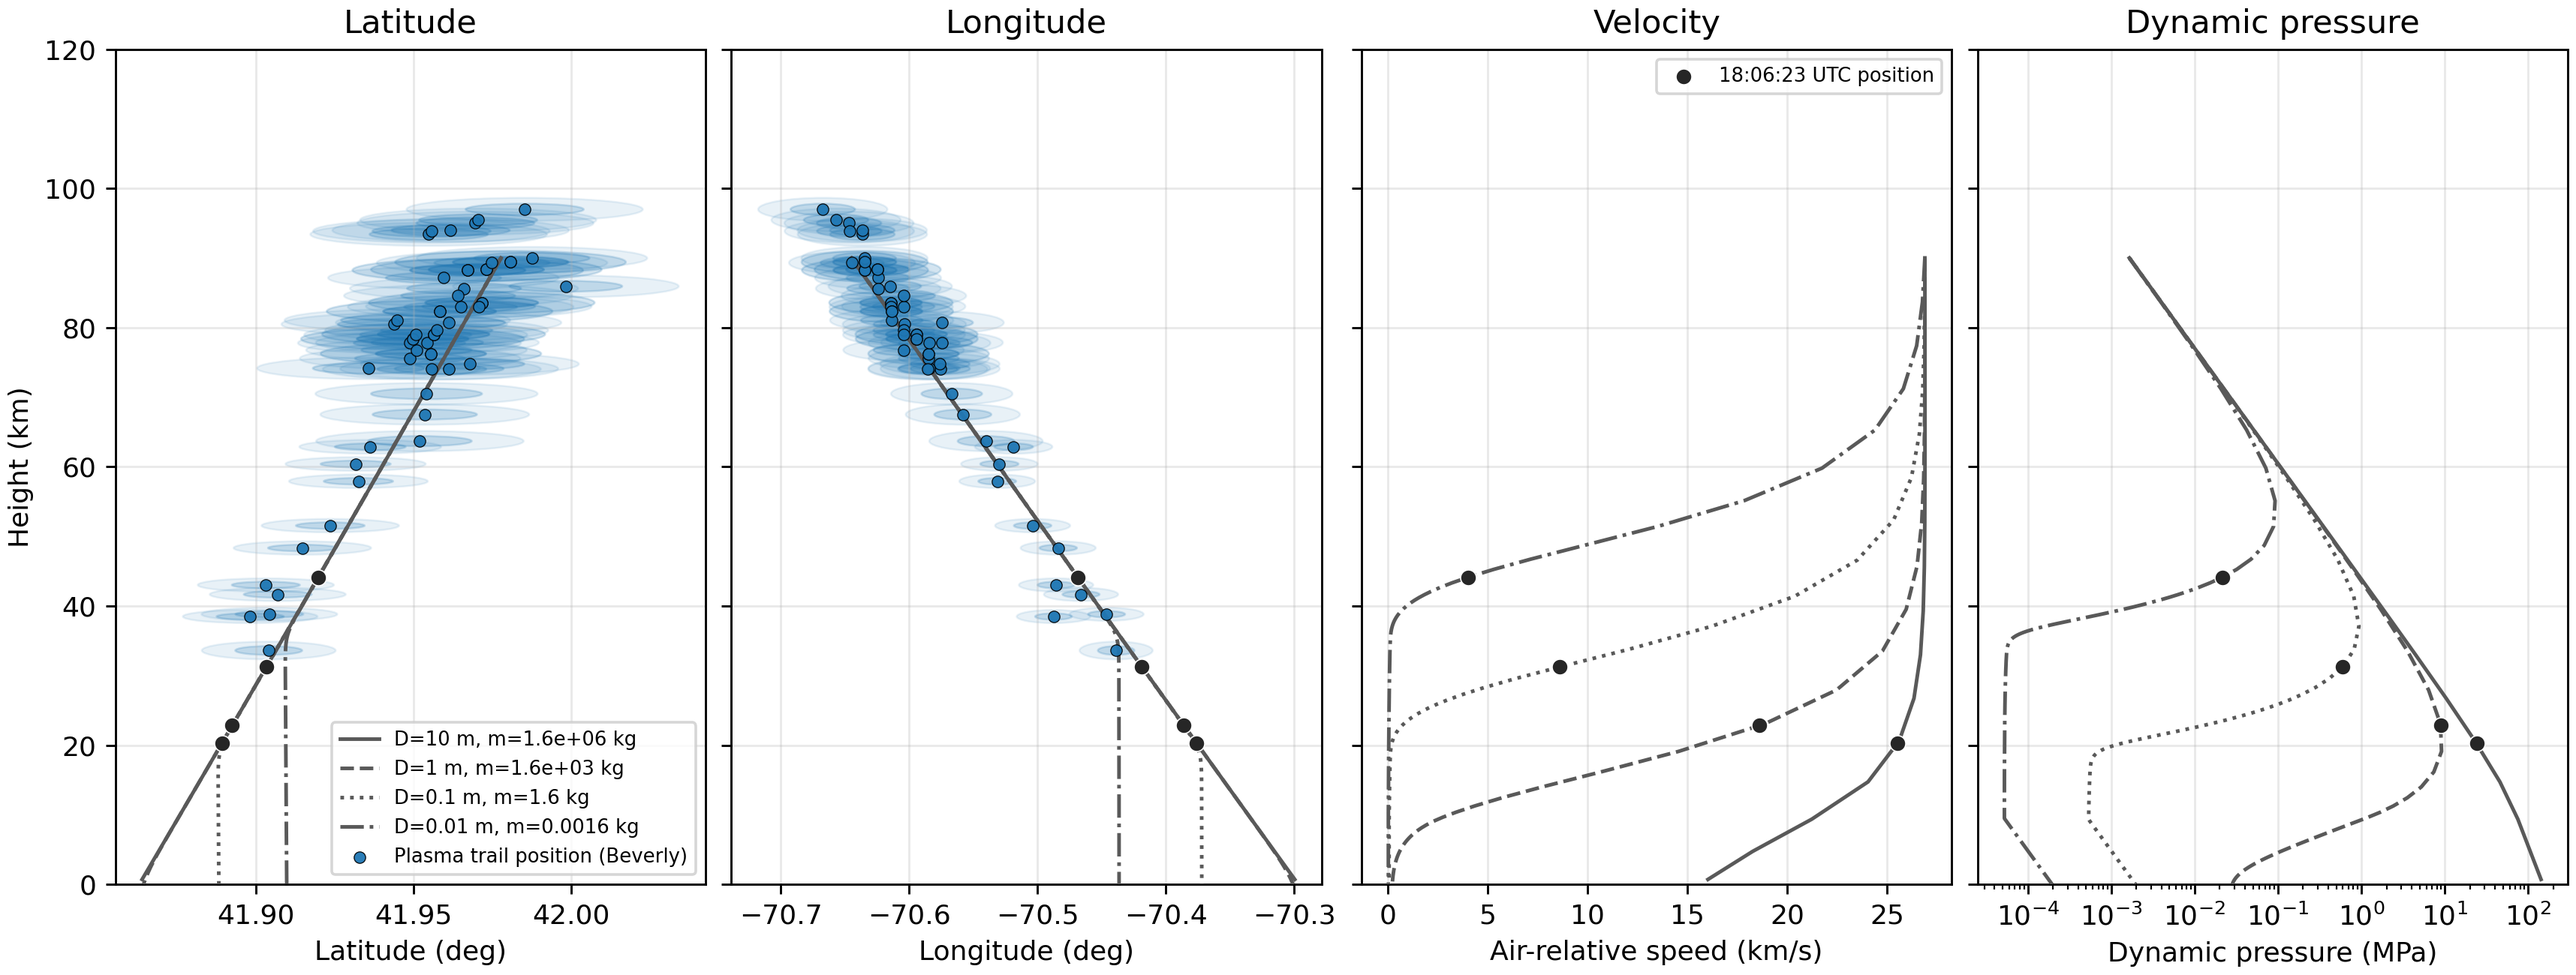
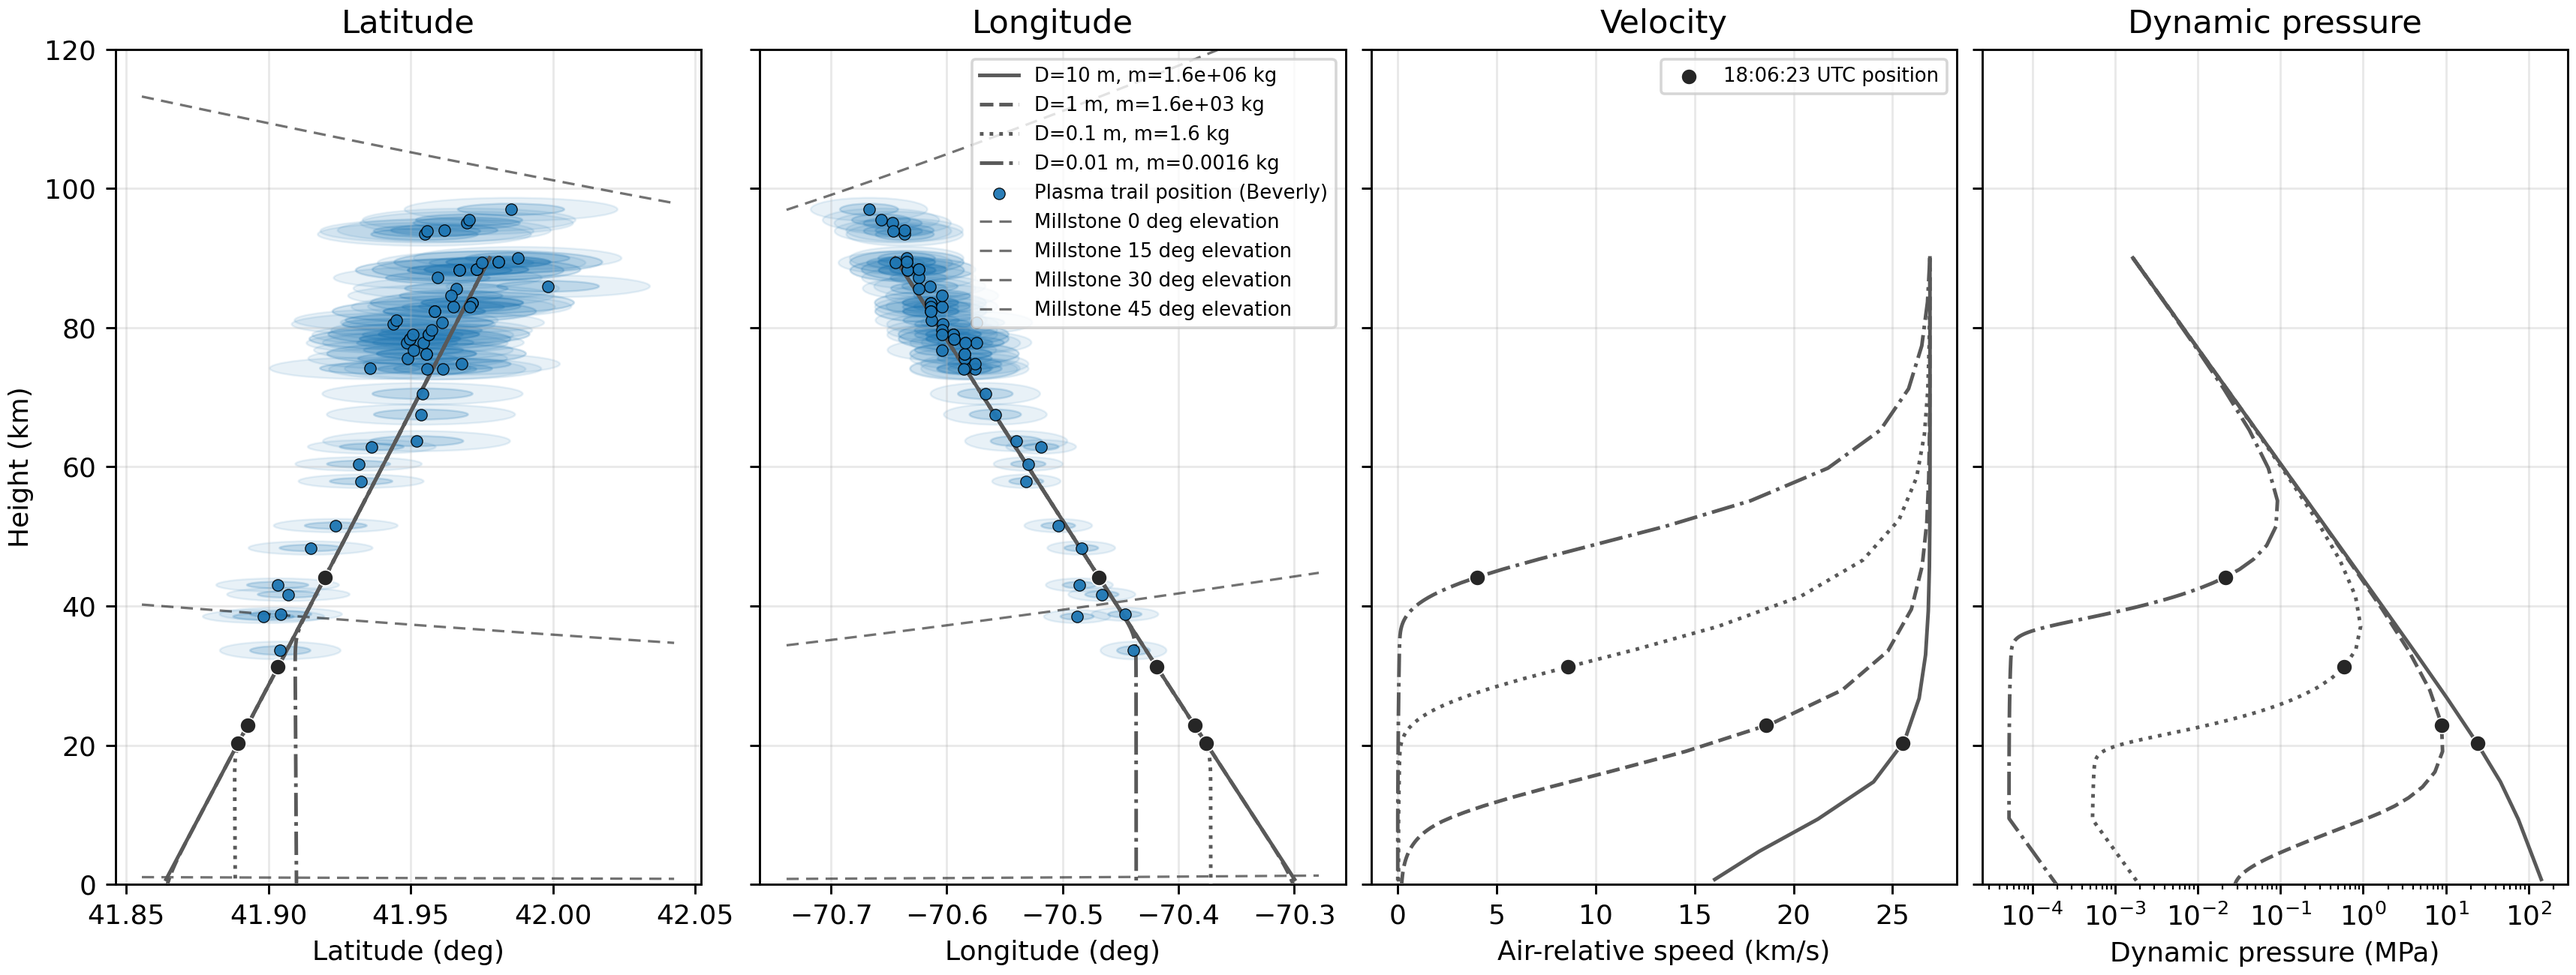
Add Millstone elevation contours

diff --git a/reports/plot_fragment_size_hypotheses.py b/reports/plot_fragment_size_hypotheses.py
@@ -22,6 +22,7 @@ from scipy.integrate import solve_ivp
 ROOT = Path(__file__).resolve().parents[1]
 sys.path.insert(0, str(ROOT))
 
+from angle_departure_estimator import enu_to_ecef_matrix, geodetic_to_ecef  # noqa: E402
 from estimate_head_echo_trajectory import ecef_to_geodetic_wgs84  # noqa: E402
 from fit_ballistic_head_trail import atmosphere_velocity_gcrs, build_density_profile, density_at_alt, dynamics, propagate_state, sphere_cd_area_over_mass  # noqa: E402
 from fit_combined_head_trail_eci import gcrs_to_ecef  # noqa: E402
@@ -33,6 +34,9 @@ OUT_SUMMARY = Path("reports/fragment_size_hypotheses_summary.json")
 DEFAULT_TRAIL_POSITION_H5 = [
     Path("reports/interactive_sparse_component_imager/beverly_trail_positions.h5"),
 ]
+MILLSTONE_TX_LAT_DEG = 42.611
+MILLSTONE_TX_LON_DEG = -71.485
+MILLSTONE_TX_ALT_M = 80.0
 
 
 def gcrs_path_to_llh(pos_gcrs: np.ndarray, time_unix: np.ndarray) -> np.ndarray:
@@ -42,6 +46,21 @@ def gcrs_path_to_llh(pos_gcrs: np.ndarray, time_unix: np.ndarray) -> np.ndarray:
 def air_relative_speed(pos_gcrs: np.ndarray, vel_gcrs: np.ndarray, time_unix: np.ndarray) -> np.ndarray:
     v_air = np.array([atmosphere_velocity_gcrs(p, t) for p, t in zip(pos_gcrs, time_unix, strict=True)], dtype=float)
     return np.linalg.norm(np.asarray(vel_gcrs, dtype=float) - v_air, axis=1)
+
+
+def elevation_altitude_km(lat_deg: float, lon_deg: float, elevation_deg: float) -> float:
+    """Return target altitude at lat/lon corresponding to a transmitter elevation angle."""
+    tx = geodetic_to_ecef(MILLSTONE_TX_LAT_DEG, MILLSTONE_TX_LON_DEG, MILLSTONE_TX_ALT_M)
+    tx_up = enu_to_ecef_matrix(MILLSTONE_TX_LAT_DEG, MILLSTONE_TX_LON_DEG)[:, 2]
+    surface = geodetic_to_ecef(lat_deg, lon_deg, 0.0)
+    target_up = enu_to_ecef_matrix(lat_deg, lon_deg)[:, 2]
+    horizontal = surface - tx
+    sin_el = math.sin(math.radians(float(elevation_deg)))
+    denom = float(np.dot(target_up, tx_up) - sin_el)
+    if abs(denom) < 1.0e-9:
+        return float("nan")
+    rhs = float(sin_el * np.linalg.norm(horizontal) - np.dot(horizontal, tx_up))
+    return rhs / denom / 1000.0
 
 
 def trail_position_h5_from_state(state_path: Path, out_path: Path) -> None:
@@ -255,7 +274,29 @@ def interp_path_at_time(path: dict, marker_time_unix: float) -> dict[str, float]
     }
 
 
-def make_plot(out: Path, paths: list[dict], components: list[dict], launch: dict, marker_time_unix: float) -> None:
+def component_reference_lonlat(paths: list[dict], components: list[dict]) -> tuple[float, float]:
+    points = []
+    for row in components:
+        lat = float(row["lat_deg"])
+        lon = float(row["lon_deg"])
+        if np.isfinite(lat) and np.isfinite(lon):
+            points.append((lat, lon))
+    if not points:
+        for path in paths:
+            lat = np.asarray(path["lat_deg"], dtype=float)
+            lon = np.asarray(path["lon_deg"], dtype=float)
+            alt = np.asarray(path["alt_km"], dtype=float)
+            keep = np.isfinite(lat) & np.isfinite(lon) & np.isfinite(alt) & (alt >= 20.0) & (alt <= 100.0)
+            points.extend(zip(lat[keep], lon[keep], strict=True))
+    if not points:
+        return float("nan"), float("nan")
+    return (
+        float(np.median([p[0] for p in points])),
+        float(np.median([p[1] for p in points])),
+    )
+
+
+def make_plot(out: Path, paths: list[dict], components: list[dict], launch: dict, marker_time_unix: float) -> dict[str, float]:
     fig, axes = plt.subplots(1, 4, figsize=(13.2, 5.0), sharey=True, constrained_layout=True)
     ax_lat, ax_lon, ax_vel, ax_q = axes
     linestyles = ["-", "--", ":", "-.", (0, (3, 1, 1, 1, 1, 1))]
@@ -266,8 +307,8 @@ def make_plot(out: Path, paths: list[dict], components: list[dict], launch: dict
         style = linestyles[idx % len(linestyles)]
         q = np.asarray(path["dynamic_pressure_mpa"], dtype=float)
         q_plot = np.where(q > 0.0, q, np.nan)
-        ax_lat.plot(path["lat_deg"], path["alt_km"], color="0.35", lw=1.35, linestyle=style, label=label, zorder=4)
-        ax_lon.plot(path["lon_deg"], path["alt_km"], color="0.35", lw=1.35, linestyle=style, zorder=4)
+        ax_lat.plot(path["lat_deg"], path["alt_km"], color="0.35", lw=1.35, linestyle=style, zorder=4)
+        ax_lon.plot(path["lon_deg"], path["alt_km"], color="0.35", lw=1.35, linestyle=style, label=label, zorder=4)
         ax_vel.plot(path["air_relative_speed_km_s"], path["alt_km"], color="0.35", lw=1.35, linestyle=style, zorder=4)
         ax_q.plot(q_plot, path["alt_km"], color="0.35", lw=1.35, linestyle=style, zorder=4)
         marker = interp_path_at_time(path, marker_time_unix)
@@ -314,8 +355,24 @@ def make_plot(out: Path, paths: list[dict], components: list[dict], launch: dict
                 height_km = max(2.0 * alt_sigma_km, row.get("blob_axis_length_cross_m", np.nan) / 1000.0)
                 add_plasma_blob(ax_lat, float(row["lat_deg"]), z_km, lat_width, height_km, color, zorder=1)
                 add_plasma_blob(ax_lon, float(row["lon_deg"]), z_km, lon_width, height_km, color, zorder=1)
-            ax_lat.scatter(lat, alt, s=18, color=color, edgecolor="black", linewidth=0.35, alpha=0.95, label=label, zorder=5)
-            ax_lon.scatter(lon, alt, s=18, color=color, edgecolor="black", linewidth=0.35, alpha=0.95, zorder=5)
+            ax_lat.scatter(lat, alt, s=18, color=color, edgecolor="black", linewidth=0.35, alpha=0.95, zorder=5)
+            ax_lon.scatter(lon, alt, s=18, color=color, edgecolor="black", linewidth=0.35, alpha=0.95, label=label, zorder=5)
+
+    ref_lat, ref_lon = component_reference_lonlat(paths, components)
+    elevation_levels_deg = [0.0, 15.0, 30.0, 45.0]
+    elevation_summary = {}
+    if np.isfinite(ref_lat) and np.isfinite(ref_lon):
+        lat_grid = np.linspace(*ax_lat.get_xlim(), 240)
+        lon_grid = np.linspace(*ax_lon.get_xlim(), 240)
+        for el in elevation_levels_deg:
+            lat_alt = np.array([elevation_altitude_km(lat, ref_lon, el) for lat in lat_grid], dtype=float)
+            lon_alt = np.array([elevation_altitude_km(ref_lat, lon, el) for lon in lon_grid], dtype=float)
+            lat_alt = np.where((lat_alt >= 0.0) & (lat_alt <= 120.0), lat_alt, np.nan)
+            lon_alt = np.where((lon_alt >= 0.0) & (lon_alt <= 120.0), lon_alt, np.nan)
+            label = f"Millstone {el:g} deg elevation"
+            ax_lat.plot(lat_grid, lat_alt, color="0.05", lw=0.9, ls=(0, (5, 3)), alpha=0.58, zorder=3)
+            ax_lon.plot(lon_grid, lon_alt, color="0.05", lw=0.9, ls=(0, (5, 3)), alpha=0.58, label=label, zorder=3)
+            elevation_summary[f"{el:g}"] = elevation_altitude_km(ref_lat, ref_lon, el)
 
     ax_lat.set_xlabel("Latitude (deg)")
     ax_lon.set_xlabel("Longitude (deg)")
@@ -330,11 +387,12 @@ def make_plot(out: Path, paths: list[dict], components: list[dict], launch: dict
         ax.grid(True, alpha=0.28)
         ax.set_ylim(0, 120)
     ax_q.set_xscale("log")
-    ax_lat.legend(loc="best", fontsize=7.2)
+    ax_lon.legend(loc="upper right", fontsize=7.2)
     ax_vel.legend(loc="best", fontsize=7.2)
     out.parent.mkdir(parents=True, exist_ok=True)
     fig.savefig(out, dpi=260)
     plt.close(fig)
+    return elevation_summary
 
 
 def main() -> None:
@@ -367,7 +425,7 @@ def main() -> None:
     )
     ensure_gui_trail_position_h5([Path(v) for v in args.trail_positions_h5])
     components = load_components_h5([Path(v) for v in args.trail_positions_h5], max_height_km=120.0)
-    make_plot(args.out, paths, components, launch, marker_time)
+    elevation_summary = make_plot(args.out, paths, components, launch, marker_time)
 
     payload = {
         "source_program": "reports/plot_fragment_size_hypotheses.py",
@@ -377,6 +435,10 @@ def main() -> None:
         "launch": launch,
         "marker_time_unix": float(marker_time),
         "marker_time_utc": utc_string(marker_time),
+        "millstone_elevation_height_km": elevation_summary,
+        "millstone_tx_lat_deg": MILLSTONE_TX_LAT_DEG,
+        "millstone_tx_lon_deg": MILLSTONE_TX_LON_DEG,
+        "millstone_tx_alt_m": MILLSTONE_TX_ALT_M,
         "max_duration_s": float(args.max_duration_s),
         "density_kg_m3": float(args.density_kg_m3),
         "cd": float(args.cd),
